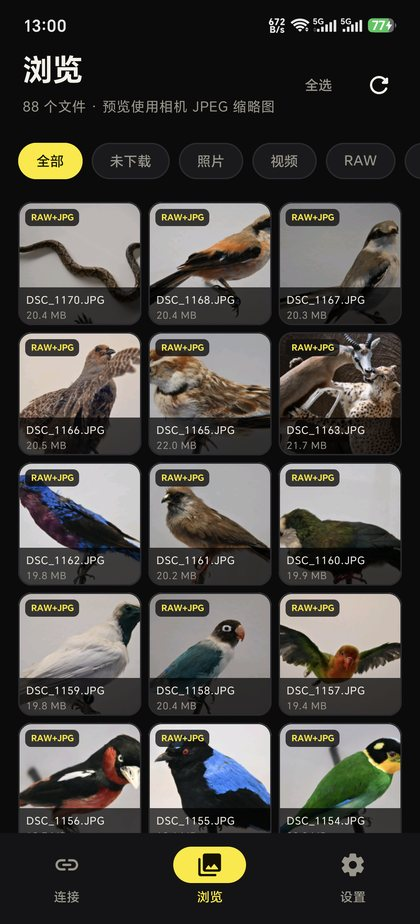
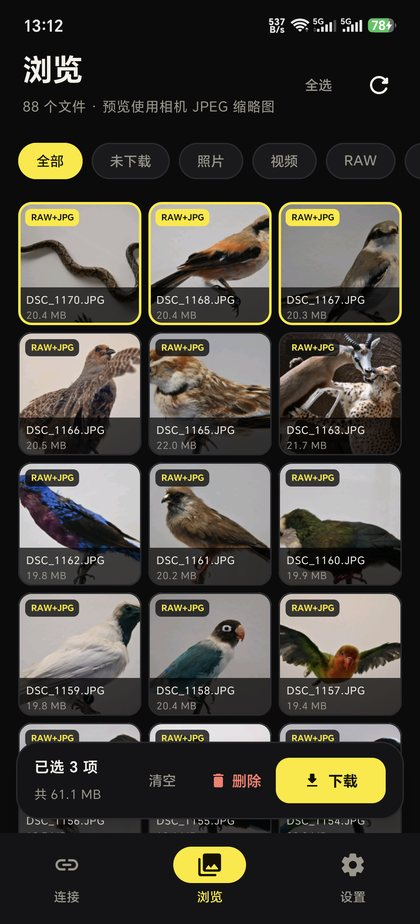
docs: 海报与截图补批量下载、遥控取景

diff --git a/README.md b/README.md
@@ -18,9 +18,10 @@
 </p>
 
 <p align="center">
-  <img src="docs/screenshots/connect-connected.jpg" width="200" alt="连接相机">
-  <img src="docs/screenshots/browse.jpg" width="200" alt="浏览与下载">
-  <img src="docs/screenshots/settings.jpg" width="200" alt="设置页">
+  <img src="docs/screenshots/connect-connected.jpg" width="180" alt="连接相机">
+  <img src="docs/screenshots/browse.jpg" width="180" alt="批量下载与 RAW+JPG">
+  <img src="docs/screenshots/remote.jpg" width="180" alt="遥控拍摄">
+  <img src="docs/screenshots/settings.jpg" width="180" alt="设置页">
 </p>
 
 ---
